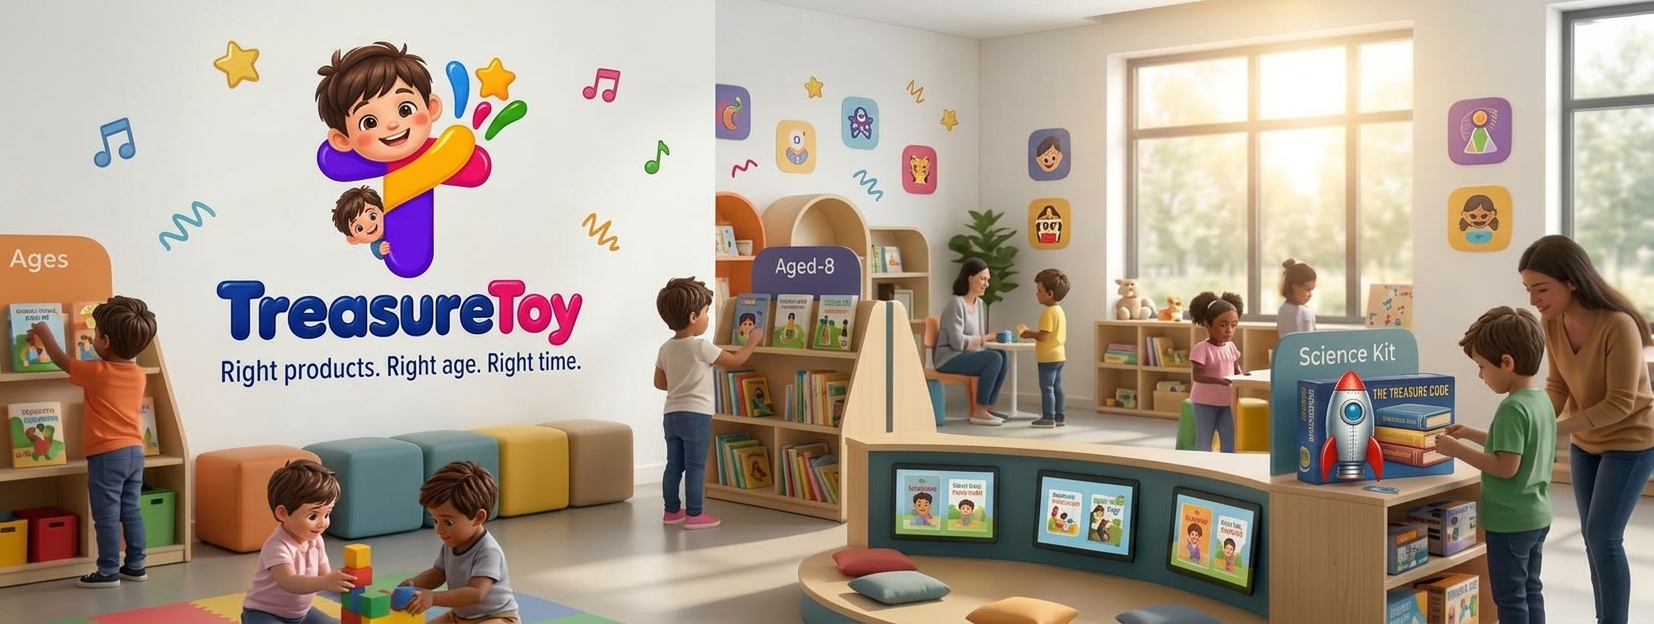
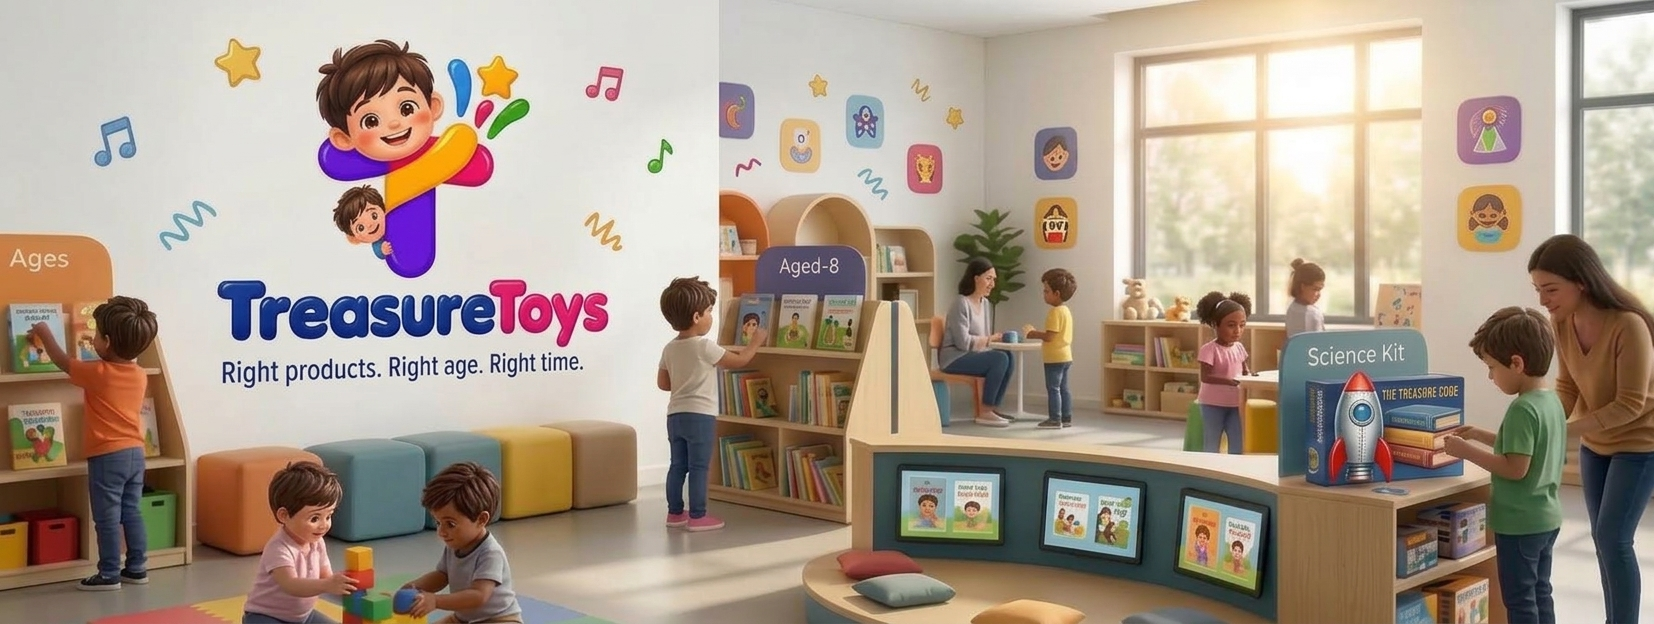
treasure toy to treasure toys

diff --git a/treasuretoy-fe/src/App.css b/treasuretoy-fe/src/App.css
@@ -527,8 +527,6 @@ height: 400px;
 }
 
 
-
-/* Header Section */
 .card-header {
   display: flex;
   align-items: center;
@@ -674,7 +672,6 @@ height: 400px;
   margin-left: 8px;
 }
 
-/* Features List */
 .features-list-2 {
   list-style: none;
   padding: 0;
@@ -701,7 +698,6 @@ height: 400px;
   flex-shrink: 0;
 }
 
-/* Button */
 .cta-button-2 {
   width: 100%;
   padding: 12px 20px;
@@ -752,7 +748,6 @@ height: 400px;
   padding: 40px 20px;
 }
 
-/* Form */
 .subscription-form {
   width: 100%;
   max-width: 600px;
@@ -762,7 +757,6 @@ height: 400px;
   box-shadow: 0 8px 30px rgba(0, 0, 0, 0.08);
 }
 
-/* Heading */
 .subscription-form h2 {
   margin-bottom: 30px;
   color: #0f447d;
@@ -779,7 +773,6 @@ height: 400px;
   padding-bottom: 8px;
 }
 
-/* Inputs */
 .subscription-form input,
 .subscription-form select {
   width: 100%;
@@ -797,14 +790,12 @@ height: 400px;
   transition: border-color 0.2s, box-shadow 0.2s;
 }
 
-/* Focus */
 .subscription-form input:focus,
 .subscription-form select:focus {
   border-color: #2aa7a1;
   box-shadow: 0 0 0 3px rgba(42, 167, 161, 0.12);
 }
 
-/* Payment */
 .subscription-form p {
   background: #f8f9ff;
   border: 1px solid #e1e7f2;
@@ -814,7 +805,6 @@ height: 400px;
   margin-bottom: 25px;
 }
 
-/* Button */
 .subscription-form button {
   width: 100%;
   padding: 14px;
@@ -841,7 +831,6 @@ height: 400px;
   transform: translateY(0);
 }
 
-/* Mobile */
 @media (max-width: 600px) {
   .subscription-container {
     padding: 20px 15px;
@@ -880,7 +869,7 @@ height: 400px;
   box-shadow: 0 10px 35px rgba(0, 0, 0, 0.08);
 }
 
-/* Success icon */
+
 
 .success-icon {
   width: 70px;
@@ -901,7 +890,6 @@ height: 400px;
   font-weight: bold;
 }
 
-/* Heading */
 
 .thankyou-card h1 {
   margin-bottom: 12px;
@@ -919,7 +907,6 @@ height: 400px;
   margin-bottom: 30px;
 }
 
-/* Subscription details */
 
 .subscription-info {
   text-align: left;
@@ -959,7 +946,6 @@ height: 400px;
   color: #0f447d;
 }
 
-/* Delivery message */
 
 .delivery-message {
   color: #344054;
@@ -967,8 +953,6 @@ height: 400px;
 
   margin-bottom: 25px;
 }
-
-/* Button */
 
 .home-button {
   width: 100%;
@@ -994,7 +978,6 @@ height: 400px;
   transform: translateY(-2px);
 }
 
-/* Mobile */
 
 @media (max-width: 600px) {
   .thankyou-card {
@@ -1042,7 +1025,6 @@ height: 400px;
   transform: translateY(-5px);
 }
 
-/* Image on LEFT */
 .category-card img {
   width: 180px;
   height: 180px;
@@ -1054,7 +1036,6 @@ height: 400px;
   flex-shrink: 0;
 }
 
-/* Text on RIGHT */
 .category-content {
   flex: 1;
   padding-left: 25px;

diff --git a/treasuretoy-fe/src/Footer.jsx b/treasuretoy-fe/src/Footer.jsx
@@ -4,7 +4,7 @@ const Footer = () => {
       <div className="footer-container">
 
         <div>
-          <h3>Treasure Toy</h3>
+          <h3>Treasure Toys</h3>
           <p>Where every kid gets their moment to shine</p>
         </div>
 
@@ -12,19 +12,19 @@ const Footer = () => {
           <h3>Contact Us</h3>
           <p>📍 Kathmandu, Nepal</p>
           <p>📞 +977 9800000000</p>
-          <p>✉ info@treasuretoy.com</p>
+          <p>✉ info@treasuretoys.com</p>
         </div>
 
         <div>
           <h3>Follow Us</h3>
-          <p>Facebook : TreasureToyNepal</p>
-          <p>Instagram : treasuretoynepal </p>
-          <p>YouTube : TreasureToy</p>
+          <p>Facebook : TreasureToysNepal</p>
+          <p>Instagram : treasuretoysnepal </p>
+          <p>YouTube : TreasureToys</p>
         </div>
 
       </div>
       <div className="footer-bottom">
-        <p>© 2026 Treasure Toy. All rights reserved.</p>
+        <p>© 2026 Treasure Toys. All rights reserved.</p>
       </div>
     </footer>
   )

diff --git a/treasuretoy-fe/src/Subscription.jsx b/treasuretoy-fe/src/Subscription.jsx
@@ -18,7 +18,7 @@ const Subscription = () => {
   const handleSubmit = async (e) => {
     e.preventDefault();
     try {
-      // 1. Create child
+      
       const childRes = await fetch('http://127.0.0.1:8000/children', {
         method: 'POST',
         headers: { 'Content-Type': 'application/json',
@@ -33,7 +33,7 @@ const Subscription = () => {
       });
       const child = await childRes.json();
 
-      // 2. Create address
+     
       await fetch('http://127.0.0.1:8000/addresses', {
         method: 'POST',
         headers: { 'Content-Type': 'application/json','Authorization': `Bearer ${token}`, },
@@ -44,7 +44,7 @@ const Subscription = () => {
         }),
       });
 
-      // 3. Create subscription
+    
       const subRes = await fetch('http://127.0.0.1:8000/subscription', {
         method: 'POST',
         headers: { 'Content-Type': 'application/json' , 'Authorization': `Bearer ${token}`,},

diff --git a/treasuretoy-fe/src/About.jsx b/treasuretoy-fe/src/About.jsx
@@ -83,7 +83,7 @@ const About = () => {
 
             <div className="feature-card">
               <span className="feature-icon">🔄</span>
-              <h4>3. Play &amp; Return</h4>
+              <h4>3. Play & Return</h4>
               <p>Once outgrown, send the toy back so another child can enjoy it.</p>
             </div>
 

diff --git a/treasuretoy-fe/src/SubscriptionFinal.jsx b/treasuretoy-fe/src/SubscriptionFinal.jsx
@@ -4,11 +4,10 @@ const SubscriptionFinal = () => {
 
   useEffect(() => {
     const date = new Date();
-
-    // Add 3 days
+    
     date.setDate(date.getDate() + 3);
 
-    // Format date
+    
     const formattedDate = date.toLocaleDateString("en-NP", {
       year: "numeric",
       month: "long",

diff --git a/treasuretoy-fe/src/AppLayout.jsx b/treasuretoy-fe/src/AppLayout.jsx
@@ -1,4 +1,4 @@
-import { BrowserRouter, Route, Routes, useLocation } from 'react-router-dom'
+import { Route, Routes, useLocation } from 'react-router-dom'
 import Home from './Home';
 import About from './About';
 import Navbar from './Navbar'

diff --git a/treasuretoy-fe/src/Category.jsx b/treasuretoy-fe/src/Category.jsx
@@ -1,4 +1,4 @@
-import { useParams, Link } from "react-router-dom";
+import { useParams } from "react-router-dom";
 import useFetch from "./UseFetch";
 import { useNavigate } from "react-router-dom";
 
